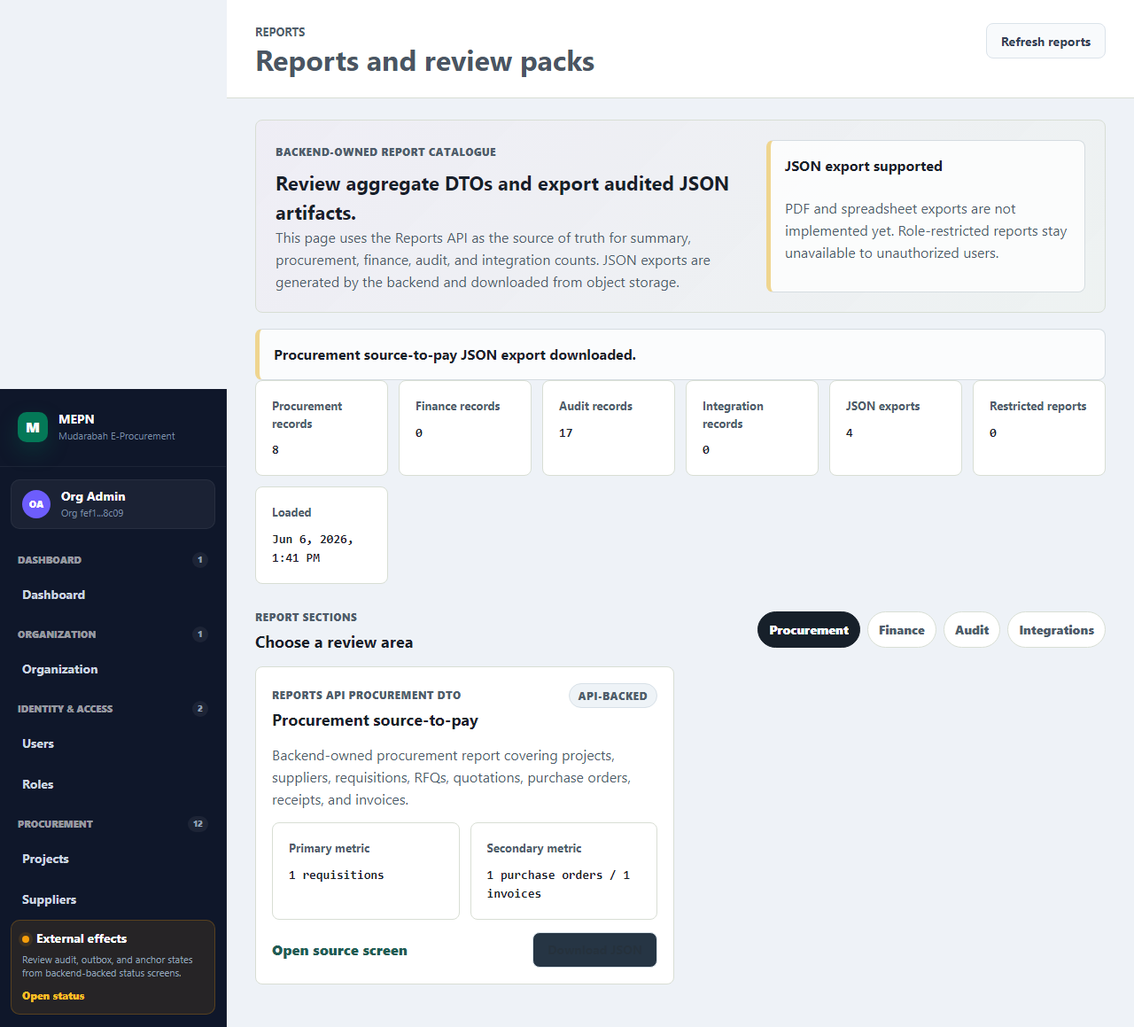
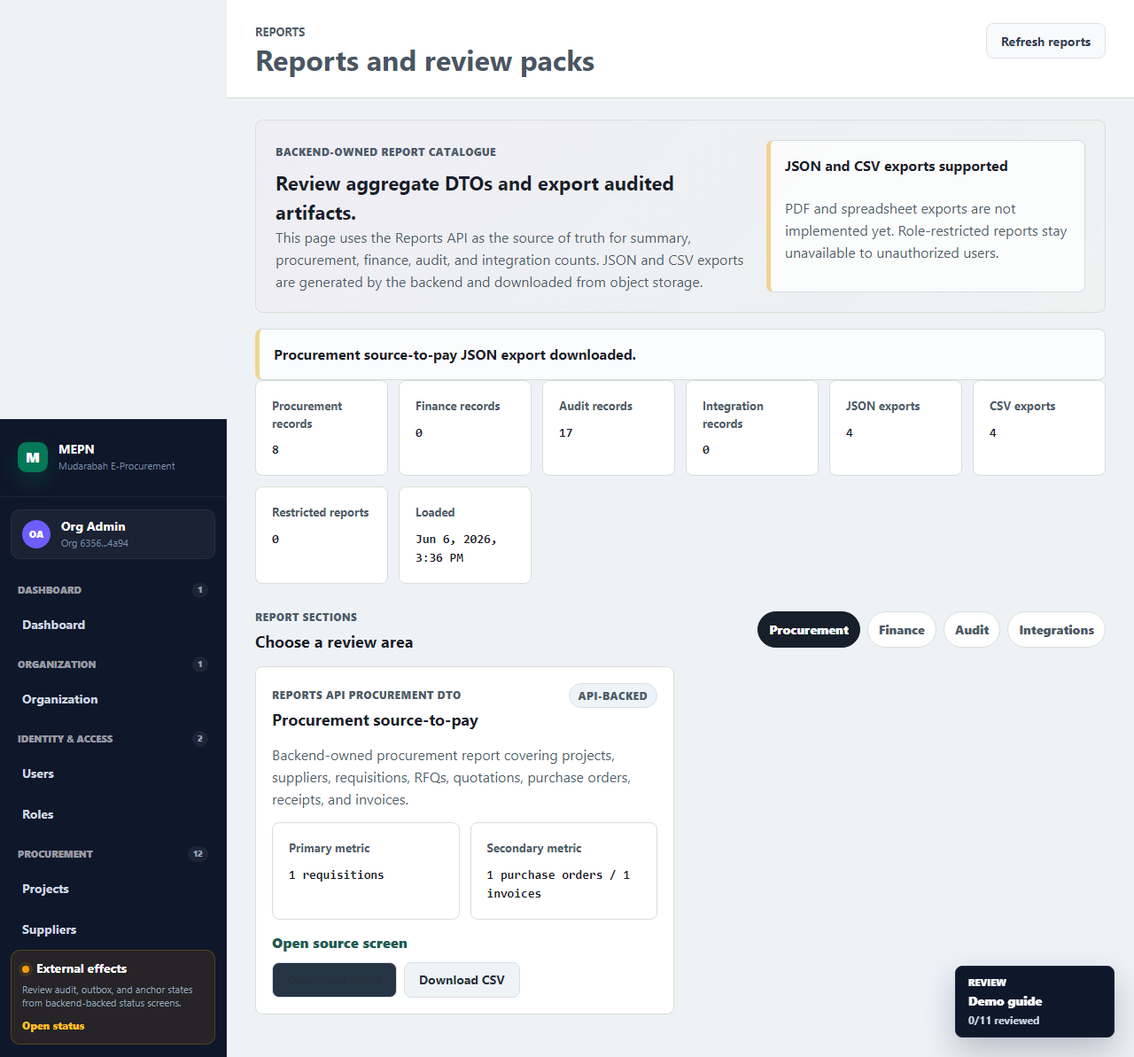
test(reports): cover csv report download

diff --git a/tests/e2e/23-reports-csv-export-flow.spec.ts b/tests/e2e/23-reports-csv-export-flow.spec.ts
@@ -1,4 +1,5 @@
 import { expect, test } from '@playwright/test';
+import { readFile } from 'node:fs/promises';
 import {
   createProcurementViaApi,
   resetDatabase,
@@ -9,7 +10,7 @@ test.beforeEach(async () => {
   await resetDatabase();
 });
 
-test('SRS-REPORT-001 reports page loads backend DTOs and downloads JSON export', async ({
+test('SRS-REPORT-002 reports page downloads audited CSV export', async ({
   page,
   request,
 }) => {
@@ -21,22 +22,33 @@ test('SRS-REPORT-001 reports page loads backend DTOs and downloads JSON export',
   await expect(
     page.getByRole('heading', { name: 'Reports and review packs' }),
   ).toBeVisible();
-  await expect(page.getByText('Backend-owned report catalogue')).toBeVisible();
   await expect(page.getByText('JSON and CSV exports supported')).toBeVisible();
   await expect(page.getByText('Procurement source-to-pay')).toBeVisible();
-  await expect(page.getByText('Reports API procurement DTO')).toBeVisible();
+  await expect(page.getByRole('button', { name: 'Download CSV' })).toBeVisible();
 
   const downloadPromise = page.waitForEvent('download');
-  await page.getByRole('button', { name: 'Download JSON' }).click();
+  await page.getByRole('button', { name: 'Download CSV' }).click();
   const download = await downloadPromise;
 
   expect(download.suggestedFilename()).toContain('procurement-report-');
-  expect(download.suggestedFilename()).toContain('.json');
+  expect(download.suggestedFilename()).toContain('.csv');
+
+  const downloadPath = await download.path();
+
+  expect(downloadPath).toBeTruthy();
+
+  const csv = await readFile(downloadPath!, 'utf8');
+
+  expect(csv.split('\n')[0]).toBe('section,metric,value');
+  expect(csv).toContain('report,type,procurement');
+  expect(csv).toContain('counts,purchaseOrders,1');
+  expect(csv).toContain('counts,invoices,1');
+
   await expect(
-    page.getByText('Procurement source-to-pay JSON export downloaded.'),
+    page.getByText('Procurement source-to-pay CSV export downloaded.'),
   ).toBeVisible();
   await page.screenshot({
-    path: 'docs/evidence/uat/reports-json-export-flow.png',
+    path: 'docs/evidence/uat/reports-csv-export-flow.png',
     fullPage: true,
   });
 });

diff --git a/docs/roadmap/feature-status-and-future-implementation.md b/docs/roadmap/feature-status-and-future-implementation.md
@@ -62,7 +62,7 @@ state. The classifications are intentionally conservative:
 | Run Azure VM Fabric Gateway deployment | evidence-only; implemented with evidence | GitHub Actions deployment run `27043095990` completed successfully against the Azure Student VM. Sanitized evidence records Docker Compose service health, public frontend/API health checks, and Gateway mode configured with no missing Gateway config. | No deployment-health action remains for this feature. Continue with the separate real Fabric proof screenshot item, which still requires a live Gateway-anchored hash record id. |
 | Generate real Fabric proof screenshots | implemented with VM-local FYP/UAT evidence | API-side `ReadAnchor` verification, web proof panel, gated Playwright screenshot flow, VM-local Fabric runtime, and reviewer screenshots now exist. Hash record `34c5a7e7-5bf3-4246-89ae-b51a2e765ef4` returned `verified=true` from chaincode `ReadAnchor` on the Azure VM-local Fabric network. | Keep evidence in `docs/evidence/qa/FABRIC_GATEWAY_UAT_EVIDENCE.md`; production consortium hardening remains separate from this FYP/UAT proof. |
 | Production OIDC/invitation flow | implementation-required; partially scaffolded | Runtime auth is still dev-login oriented unless `DEV_AUTH_ENABLED` is set for local/UAT. Backend OIDC start/callback endpoints, state/nonce validation, claim validation, and test-provider login exist. Prisma has a token-hash `Invitation` model, backend invitation lifecycle API, login mode UI, and invite acceptance UI. Real-provider token exchange and final auth UAT evidence remain incomplete. | Add auth docs/UAT evidence and real-provider adapter configuration if required. |
-| Report aggregate DTOs and exports | implemented for JSON FYP review scope | Backend report DTO endpoints exist for summary, procurement, finance, audit, and integrations with organization scoping and finance role filtering. Report export job persistence, explicit queued/processing/completed/failed/expired lifecycle validation, audited JSON artifact generation, download endpoints, frontend JSON export flow, E2E coverage, and evidence docs now exist. | Keep PDF, spreadsheet, scheduled, regulatory, and evidence-registration report packs in post-demo hardening. |
+| Report aggregate DTOs and exports | implemented for JSON/CSV FYP review scope | Backend report DTO endpoints exist for summary, procurement, finance, audit, and integrations with organization scoping and finance role filtering. Report export job persistence, explicit queued/processing/completed/failed/expired lifecycle validation, audited JSON/CSV artifact generation, download endpoints, frontend export flow, E2E coverage, and evidence docs now exist. | Keep PDF, spreadsheet, scheduled, regulatory, and evidence-registration report packs in post-demo hardening. |
 | Loss exception workflow | implemented for FYP review scope | Prisma stores loss exception lifecycle metadata, reviewer decision fields, evidence references, and status. Finance service/API can create, list/read, evidence-advance, classify, resolve, and audit/outbox loss exceptions. Negative P/L creates an unresolved `GENUINE_COMMERCIAL_LOSS` record instead of a guaranteed return. Backend closure rejects unresolved loss exceptions through direct API calls, and the finance workspace includes a reviewer classification panel with UAT coverage and evidence docs. | Keep exact legal/Shariah evidence thresholds, appeal/reopen governance, and exception analytics in post-demo hardening. |
 | Accessibility automation | implemented for FYP review scope | Manual UI improvements exist. `@axe-core/playwright`, a reusable Playwright accessibility helper, `test:a11y`, a passing login smoke spec, passing critical-route Playwright axe/focus coverage, testing strategy updates, and evidence docs now exist. The automation fixed nested landmark, progressbar ARIA, graph landmark, muted-token contrast, and graph legend contrast defects. | Keep CI job separation, manual screen-reader review, and mobile-specific accessibility checks in post-demo hardening. |
 | Backup/restore proof | implemented for PostgreSQL FYP review scope | Backup/restore scope is documented in `docs/deployment/backup-restore-runbook.md`, including PostgreSQL, MinIO/object storage, Redis treatment, Fabric secret exclusions, and restore proof requirements. `scripts/backup/backup-postgres.sh` creates timestamped gzip logical dumps. `scripts/backup/restore-postgres.sh` validates and restores gzip dumps into an explicitly confirmed target database. `scripts/backup/smoke-restore.sh` validates restored schema and sanitized record counts. Evidence is recorded in `docs/evidence/deployment/BACKUP_RESTORE_EVIDENCE.md`. | Keep MinIO/object backup automation, scheduling, retention, and off-VM storage in post-demo hardening. |
@@ -91,7 +91,7 @@ state. The classifications are intentionally conservative:
 | Integrations | Integration status cards, Fabric runtime mode display, outbox visibility, retry/degraded/unavailable states. | `apps/api/src/modules/integrations/`, `apps/web/src/features/integrations/` |
 | Operations | Worker heartbeat model/API/UI for queue and worker liveness visibility. | `apps/api/prisma/schema.prisma`, `apps/api/src/modules/integrations/`, `apps/web/src/features/operations/` |
 | Admin and identity | Organization setup, role/user membership management, admin demo surfaces. | `apps/api/src/organizations/`, `apps/api/src/users/`, `apps/web/src/features/identity/` |
-| Reports demo surface | Reports landing/demo cards with honest partial/export limitations. | `apps/web/src/features/reports/` |
+| Reports demo surface | Reports landing/demo cards with audited JSON/CSV export actions and honest unsupported-format limitations. | `apps/web/src/features/reports/` |
 | CI | GitHub Actions CI for install, lint, typecheck, tests, and build. | `.github/workflows/ci.yml` |
 | Deployment | Docker Compose production setup and Azure Student VM deployment documentation. | `docker-compose.prod.yml`, `deploy/`, `docs/deployment/azure-student-vm-deployment.md` |
 | Fabric secret delivery | GitHub Actions VM secret materialization, validation, smoke, and evidence scripts. | `.github/workflows/deploy-azure-vm.yml`, `scripts/deploy/`, `scripts/validate-fabric-secrets.sh` |
@@ -104,7 +104,7 @@ state. The classifications are intentionally conservative:
 | Area | Current state | What remains |
 |---|---|---|
 | Formal UAT execution | UAT checklist/templates exist. | Reviewer-led execution and signed evidence package remain pending. |
-| Reports | Backend aggregate DTOs and audited JSON exports exist. | PDF/spreadsheet exports, scheduled report packs, evidence-item registration of exported reports, and regulatory-ready layouts remain incomplete. |
+| Reports | Backend aggregate DTOs and audited JSON/CSV exports exist. | PDF/spreadsheet exports, scheduled report packs, evidence-item registration of exported reports, and regulatory-ready layouts remain incomplete. |
 | Production authentication | Dev login works for local/UAT and is guarded by `DEV_AUTH_ENABLED`; production defaults disable dev login. | Real OIDC, invite-token validation, expiry/revocation, MFA/password policy decisions remain incomplete. |
 | Loss exception policy hardening | Domain contract, schema lifecycle fields, finance service transition methods, reviewer lifecycle API endpoints, backend closure gate, workspace reviewer UI, targeted UAT coverage, and evidence docs exist for the FYP review scope. | Exact legal/Shariah evidence thresholds, appeal/reopen governance, and exception analytics remain incomplete. |
 | Accessibility hardening | Manual/shared UI improvements plus an axe-based Playwright helper, login smoke spec, critical-route axe/focus regression coverage, and evidence documentation exist. | CI job separation, manual screen-reader review, and mobile-specific accessibility checks remain incomplete. |
@@ -123,7 +123,7 @@ post-demo/product-hardening slices.
 | Priority | Feature | Implementation notes | Acceptance evidence |
 |---|---|---|---|
 | P1 | Production OIDC/invitation completion | Real provider token exchange/configuration, invitation UAT evidence, provider-specific callback deployment checks, and final auth docs. Dev login remains demo-only and disabled by default in production-like config. | Real-provider or agreed test-provider UAT evidence, auth E2E, audit events, invite acceptance screenshots. |
-| P1 | Report export hardening | JSON exports are implemented. Add PDF/spreadsheet formats, scheduled report packs, evidence-item registration, retention rules, and reviewer-ready layouts. | Downloadable sample PDF/spreadsheet artifacts, API/E2E tests, audit events, report evidence docs. |
+| P1 | Report export hardening | JSON and CSV exports are implemented. Add PDF/spreadsheet formats, scheduled report packs, evidence-item registration, retention rules, and reviewer-ready layouts. | Downloadable sample PDF/spreadsheet artifacts, API/E2E tests, audit events, report evidence docs. |
 | P1 | Loss exception policy hardening | FYP workflow is implemented. Add exact legal/Shariah evidence thresholds, appeal/reopen governance, escalation SLAs, and exception analytics. | Policy-approved tests, reviewer UAT, updated domain docs. |
 | P2 | Accessibility hardening | Critical-route automation exists. Add CI separation, manual screen-reader review, mobile-specific accessibility checks, and documented exceptions. | CI/a11y logs, manual review notes, mobile screenshots. |
 | P2 | Backup/restore hardening | PostgreSQL proof exists. Add MinIO/object backup automation, scheduled backups, retention, restore drills, and off-VM storage. | Restore artifacts, smoke logs, backup retention evidence. |
@@ -265,8 +265,8 @@ Status values:
 | 4 | 4.1 Report API DTOs | Complete | `feat(reports): add aggregate report dtos` | `corepack pnpm --dir apps/api test:unit -- reports`; `corepack pnpm --dir apps/api test:integration -- reports`; `corepack pnpm lint`; `corepack pnpm typecheck`; `corepack pnpm build` | Backend reports module exposes summary, procurement, finance, audit, and integration DTO endpoints with organization scope and finance role filtering. | Report field scope is intentionally conservative; export lifecycle remains in later slices. |
 | 4 | 4.2 Export job model | Complete | `feat(reports): add report export job model` | `corepack pnpm prisma:generate`; `corepack pnpm --dir apps/api test:unit -- reports`; `corepack pnpm --dir apps/api test:integration -- reports`; `corepack pnpm lint`; `corepack pnpm typecheck`; `corepack pnpm build` | `ReportExportJob` persists report type, format, lifecycle status, requester, artifact pointers, errors, and timestamps. Unit tests cover lifecycle validation; integration tests cover persistence, transition rules, and finance export permissions. | JSON artifact generation and download remain in Slice 4.3. |
 | 4 | 4.3 JSON export/download | Complete | `feat(reports): add audited json report exports` | `corepack pnpm --dir apps/api test:unit -- reports`; `corepack pnpm --dir apps/api test:integration -- reports`; `corepack pnpm lint`; `corepack pnpm typecheck`; `corepack pnpm build` | `POST /api/v1/reports/exports`, `GET /api/v1/reports/exports/:id`, and `GET /api/v1/reports/exports/:id/download` generate and stream JSON artifacts from object storage. Audit events cover requested/completed/downloaded states. | Only JSON is supported; frontend export UI and docs remain later slices. |
-| 4 | 4.4 Reports frontend | Complete | `feat(reports): connect reports ui to export api` | `corepack pnpm --dir apps/web test -- reports`; `corepack pnpm --dir apps/api test:integration -- reports`; `corepack pnpm test:e2e -- tests/e2e/16-reports-export-flow.spec.ts`; `corepack pnpm lint`; `corepack pnpm typecheck`; `corepack pnpm build` | Reports page loads backend report DTOs, shows role-restricted report state, and downloads audited JSON exports through the backend export API. | Evidence documentation remains in Slice 4.5. |
-| 4 | 4.5 Reports docs/evidence | Complete | `docs(reports): document report dto export evidence` | `corepack pnpm lint`; `corepack pnpm typecheck`; previously passed reports unit/integration/E2E/build commands recorded in evidence doc | `docs/evidence/qa/REPORT_EXPORT_EVIDENCE.md`; `docs/evidence/uat/reports-json-export-flow.png` | PDF/spreadsheet/regulatory report packs remain post-demo hardening, not a blocker for JSON FYP review scope. |
+| 4 | 4.4 Reports frontend | Complete | `feat(reports): connect reports ui to export api`; `feat(reports): connect csv export ui` | `corepack pnpm --dir apps/web test -- reports`; `corepack pnpm --dir apps/api test:integration -- reports`; `corepack pnpm test:e2e -- tests/e2e/16-reports-export-flow.spec.ts`; `corepack pnpm test:e2e -- tests/e2e/23-reports-csv-export-flow.spec.ts`; `corepack pnpm lint`; `corepack pnpm typecheck`; `corepack pnpm build` | Reports page loads backend report DTOs, shows role-restricted report state, and downloads audited JSON/CSV exports through the backend export API. | Evidence documentation remains in Slice 4.5. |
+| 4 | 4.5 Reports docs/evidence | Complete | `docs(reports): document report dto export evidence` | `corepack pnpm lint`; `corepack pnpm typecheck`; previously passed reports unit/integration/E2E/build commands recorded in evidence doc | `docs/evidence/qa/REPORT_EXPORT_EVIDENCE.md`; `docs/evidence/uat/reports-json-export-flow.png`; `docs/evidence/uat/reports-csv-export-flow.png` | PDF/spreadsheet/regulatory report packs remain post-demo hardening, not a blocker for JSON/CSV FYP review scope. |
 | 5 | 5.1 Loss exception domain contract | Complete | `docs(finance): define loss exception workflow contract` | `corepack pnpm lint`; `corepack pnpm typecheck` | `docs/domain/loss-exception-workflow.md` defines classifications, states, permissions, closure rules, evidence fields, no-guaranteed-return constraints, and open legal/Shariah decisions. | Exact evidence thresholds remain a product/legal/Shariah decision for implementation review. |
 | 5 | 5.2 Loss exception domain model | Complete | `feat(finance): add loss exception domain model` | `corepack pnpm prisma:generate`; `corepack pnpm --dir apps/api test:unit -- loss-exception finance`; `corepack pnpm --dir apps/api test:integration -- finance` | Prisma migration `20260606004000_loss_exception_lifecycle`, lifecycle helper, service transition methods, and negative P/L integration persistence test. | API endpoints, closure gate, and UI remain later slices. |
 | 5 | 5.3 Loss exception API/permissions | Complete | `feat(finance): add loss exception api` | `corepack pnpm --dir apps/api test:unit -- loss-exception finance`; `corepack pnpm --dir apps/api test:integration -- finance` | `POST/GET /api/v1/loss-exceptions`, evidence, decision, and close endpoints are role-checked, org-scoped, audited, and outboxed. Integration tests prove auditor read/evidence access, auditor decision denial, reviewer decision, and resolution. | Closure gate and UI remain later slices. |

diff --git a/docs/evidence/qa/REPORT_EXPORT_EVIDENCE.md b/docs/evidence/qa/REPORT_EXPORT_EVIDENCE.md
@@ -1,11 +1,11 @@
-# Report DTO And JSON Export Evidence
+# Report DTO, JSON, And CSV Export Evidence
 
 ## Status
 
 Implemented for the current FYP review scope.
 
 The reports module now provides backend-owned aggregate DTOs and audited JSON
-exports for:
+and CSV exports for:
 
 - procurement
 - finance
@@ -23,8 +23,8 @@ implemented.
 | Export model | `apps/api/prisma/schema.prisma` -> `ReportExportJob` |
 | Migration | `apps/api/prisma/migrations/20260606003000_report_export_job/` |
 | Frontend UI | `apps/web/src/features/reports/` |
-| E2E proof | `tests/e2e/16-reports-export-flow.spec.ts` |
-| Screenshot | `../uat/reports-json-export-flow.png` |
+| E2E proof | `tests/e2e/16-reports-export-flow.spec.ts`, `tests/e2e/23-reports-csv-export-flow.spec.ts` |
+| Screenshots | `../uat/reports-json-export-flow.png`, `../uat/reports-csv-export-flow.png` |
 
 ## API Endpoints
 
@@ -35,9 +35,9 @@ implemented.
 | `GET /api/v1/reports/finance` | Finance aggregate counts and status breakdowns. Requires a finance-capable role. |
 | `GET /api/v1/reports/audit` | Audit event, hash record, and anchor counts. |
 | `GET /api/v1/reports/integrations` | Outbox, reconciliation, webhook, and worker heartbeat counts. |
-| `POST /api/v1/reports/exports` | Creates an export job, writes a JSON artifact, and audits request/completion/failure. |
+| `POST /api/v1/reports/exports` | Creates an export job, writes a JSON or CSV artifact, and audits request/completion/failure. |
 | `GET /api/v1/reports/exports/:id` | Reads export job status with organization and role checks. |
-| `GET /api/v1/reports/exports/:id/download` | Streams a completed JSON artifact and audits download. |
+| `GET /api/v1/reports/exports/:id/download` | Streams a completed JSON or CSV artifact and audits download. |
 
 ## Role And Safety Rules
 
@@ -47,9 +47,9 @@ implemented.
 - Procurement reports are restricted to procurement-capable roles, approvers,
   auditors, and organization admins.
 - Export jobs preserve the same report access checks as the DTO endpoints.
-- Exported JSON contains aggregate report DTO data, not PEM material, secrets,
+- Exported JSON and CSV contain aggregate report DTO data, not PEM material, secrets,
   credentials, or confidential Fabric payloads.
-- JSON export success is not treated as Fabric verification proof.
+- Report export success is not treated as Fabric verification proof.
 
 ## Sanitized Export Shape
 
@@ -78,6 +78,15 @@ implemented.
 }
 ```
 
+CSV exports use deterministic `section,metric,value` columns. Example:
+
+```csv
+section,metric,value
+report,type,procurement
+counts,invoices,1
+counts,purchaseOrders,1
+```
+
 ## Verification Commands
 
 ```powershell
@@ -86,6 +95,7 @@ corepack pnpm --dir apps/api test:unit -- reports
 corepack pnpm --dir apps/api test:integration -- reports
 corepack pnpm --dir apps/web test -- reports
 corepack pnpm test:e2e -- tests/e2e/16-reports-export-flow.spec.ts
+corepack pnpm test:e2e -- tests/e2e/23-reports-csv-export-flow.spec.ts
 corepack pnpm lint
 corepack pnpm typecheck
 corepack pnpm build
@@ -97,15 +107,18 @@ Latest targeted result:
 - API reports integration tests: passed.
 - Web reports model tests: passed.
 - Reports Playwright E2E: passed.
+- Reports CSV Playwright E2E: passed.
 - Lint/typecheck/build: passed.
 
 ## Screenshot
 
 ![Reports JSON export flow](../uat/reports-json-export-flow.png)
 
+![Reports CSV export flow](../uat/reports-csv-export-flow.png)
+
 ## Known Limitations
 
-- JSON is the only implemented export format.
+- JSON and CSV are the implemented export formats.
 - PDF, spreadsheet, scheduled, and regulatory formatted report packs remain
   post-demo hardening.
 - Exported reports are aggregate review artifacts; they are not automatically

diff --git a/docs/roadmap/product-hardening-backlog.md b/docs/roadmap/product-hardening-backlog.md
@@ -9,7 +9,7 @@ the items below must be completed before regulated or real financial use.
 | Item | Problem | Target behavior | Implementation slice | Acceptance criteria | Priority | Dependencies | Evidence required |
 |---|---|---|---|---|---|---|---|
 | Real OIDC/invitation flow | Dev login and manual organization handoff are acceptable for demo but not production auth. | Users authenticate through OIDC or validated invite tokens with audited membership creation. | Add provider config, callback handling, invite validation, expiry/revocation, and role claim mapping. | Login works without dev-auth fields; expired/revoked invites are rejected; membership changes are audited. | High | OIDC provider, invite policy, role matrix | Auth E2E, audit logs, UAT screenshots |
-| Report export hardening | JSON report exports exist for FYP review, but production report packs are not complete reviewer artifacts. | Procurement, finance, audit, integration, closure, and regulatory reports export audited files in agreed formats. | Add PDF/spreadsheet formats, scheduled report packs, evidence-item registration, retention rules, and production layouts. | JSON exports remain audited; additional formats create downloadable artifacts and audit records; failed exports are visible. | High | Report DTOs, object storage, report format decision | Unit/API tests, downloaded sample reports, UAT screenshots |
+| Report export hardening | JSON and CSV report exports exist for FYP review, but production report packs are not complete reviewer artifacts. | Procurement, finance, audit, integration, closure, and regulatory reports export audited files in agreed formats. | Add PDF/spreadsheet formats, scheduled report packs, evidence-item registration, retention rules, and production layouts. | JSON/CSV exports remain audited; additional formats create downloadable artifacts and audit records; failed exports are visible. | High | Report DTOs, object storage, report format decision | Unit/API tests, downloaded sample reports, UAT screenshots |
 | Loss exception workflow | Negative P/L can be recorded, but genuine loss vs breach/negligence classification is incomplete. | Reviewers classify commercial loss, negligence, misconduct, fraud, or breach with evidence. | Add loss exception endpoints, evidence requirements, reviewer decisions, and closure gates. | Closure cannot complete unresolved exception paths; no guaranteed fixed return is calculated. | High | Shariah/legal decision model | Workflow tests, UAT scenario |
 | Accessibility automation | Manual improvements exist without automated axe/contrast coverage. | Demo-critical routes have automated accessibility smoke tests. | Add Playwright axe or equivalent, focus checks, and contrast checks. | CI reports accessibility failures for dashboard, finance workspace, audit, graph, admin, and reports. | Medium | Tooling approval | CI logs, accessibility report |
 | Backup/restore evidence | VM docs mention backups, but repeatable restore proof is limited. | Operators can back up and restore PostgreSQL/object storage demo data. | Add backup scripts, restore scripts, and smoke-test checklist. | Restore produces a working app with expected records. | Medium | Storage policy | Restore run log |

diff --git a/docs/evidence/EVIDENCE_INDEX.md b/docs/evidence/EVIDENCE_INDEX.md
@@ -41,7 +41,7 @@ not be stored in this directory.
 | `docs/evidence/qa/AUTH_OIDC_INVITATION_UAT_EVIDENCE.md` | Auth mode, dev-login guard, OIDC test-provider, and invite acceptance evidence. | Partial; real provider UAT remains hardening. |
 | `docs/evidence/qa/GUIDED_DEMO_MODE_EVIDENCE.md` | In-app guided reviewer checklist for the FYP demo path. | Complete after latest guided demo E2E screenshot capture. |
 | `docs/evidence/qa/EVIDENCE_PACKAGE_BROWSER_EVIDENCE.md` | Read-only in-app reviewer evidence package browser. | Complete after latest evidence browser E2E screenshot capture. |
-| `docs/evidence/qa/REPORT_EXPORT_EVIDENCE.md` | Backend report DTO and audited JSON export evidence. | Complete for JSON FYP scope. |
+| `docs/evidence/qa/REPORT_EXPORT_EVIDENCE.md` | Backend report DTO and audited JSON/CSV export evidence. | Complete for JSON and CSV FYP scope. |
 | `docs/evidence/qa/LOSS_EXCEPTION_WORKFLOW_EVIDENCE.md` | Loss exception classification, reviewer UI, closure gate, and no-guaranteed-return evidence. | Complete for FYP scope. |
 | `docs/evidence/qa/ACCESSIBILITY_EVIDENCE.md` | Accessibility helper, axe/focus checks, and critical-route evidence. | Complete for automated FYP scope. |
 | `docs/evidence/qa/SUMMARY_DTO_EVIDENCE.md` | Dashboard/procurement/finance summary DTO and UI evidence. | Complete for FYP scope. |
@@ -56,6 +56,7 @@ not be stored in this directory.
 | `docs/evidence/uat/guided-demo-mode.png` | Guided Demo Mode checklist overlay. |
 | `docs/evidence/uat/evidence-package-browser.png` | Evidence Package Browser reviewer page. |
 | `docs/evidence/uat/reports-json-export-flow.png` | JSON report export flow. |
+| `docs/evidence/uat/reports-csv-export-flow.png` | CSV report export flow. |
 | `docs/evidence/uat/loss-exception-review-flow.png` | Loss exception reviewer workflow. |
 | `docs/evidence/uat/summary-procurement-hub.png` | Procurement Hub summary DTO UI. |
 | `docs/evidence/uat/summary-finance-panel.png` | Finance summary DTO UI. |
@@ -75,7 +76,7 @@ not be stored in this directory.
 | Gap | Classification | Next action |
 |---|---|---|
 | Real production OIDC provider UAT | Production hardening | Configure agreed provider, run callback/invite UAT, and update auth evidence. |
-| PDF/spreadsheet report packs | Product hardening | Implement export formats and capture downloadable artifacts. |
+| PDF/spreadsheet report packs | Product hardening | Implement downloadable PDF/spreadsheet artifacts and capture evidence. |
 | MinIO/object backup automation | Operations hardening | Extend backup/restore scripts beyond PostgreSQL. |
 | External ERP/e-sign/payment provider integrations | External integration hardening | Implement real adapters and collect sanitized provider evidence. |
 | Manual screen-reader/mobile accessibility review | QA hardening | Run manual review and add notes/screenshots. |
